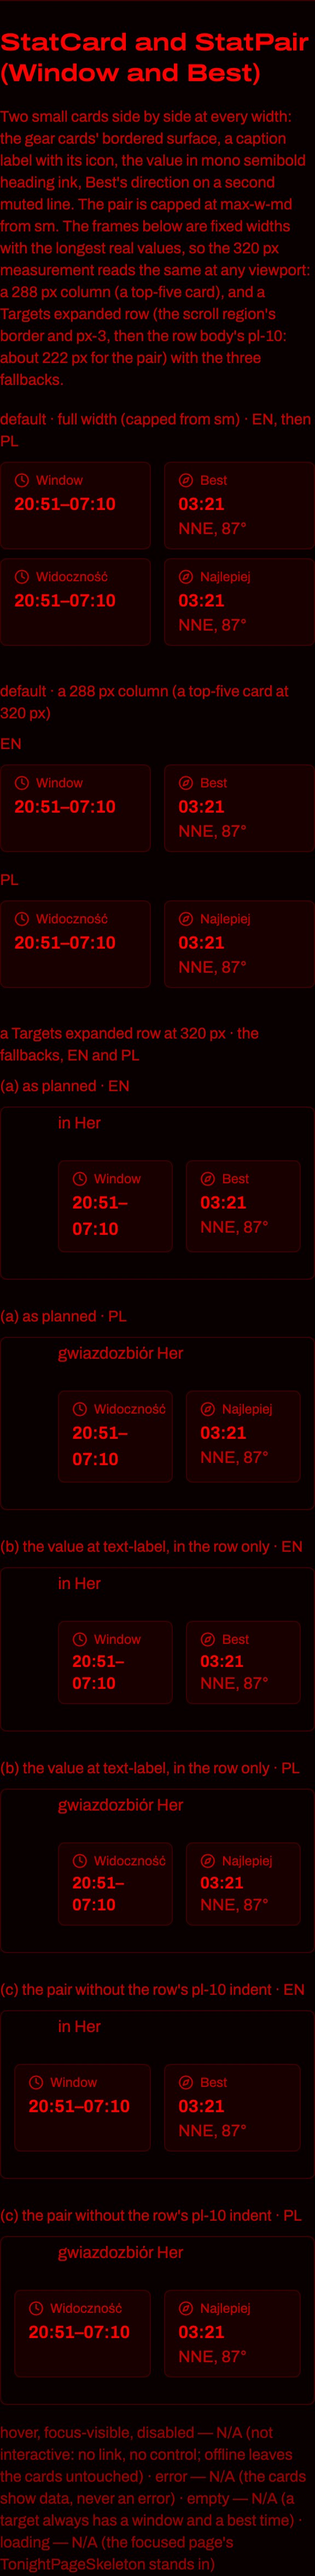
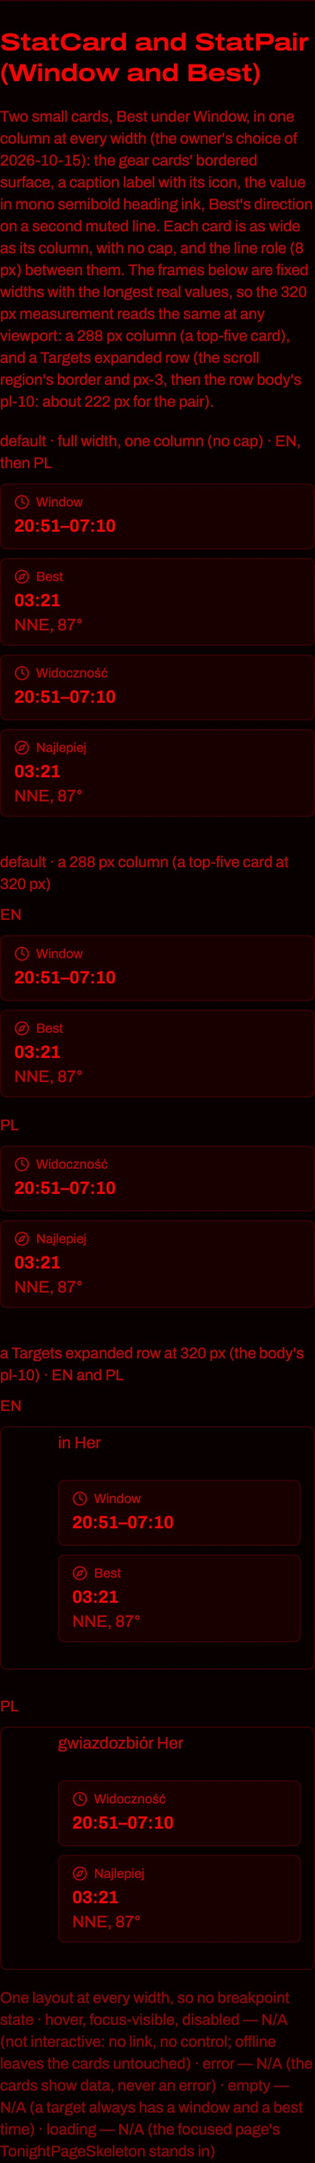
feat(ui-fact-rhythm): owner checkpoint, stacked stat pair and item 20 px (p1)
Owner decisions of 2026-10-15: Window and Best stack in one column, each card
full width, at every width (variant (a)'s look); --spacing-item 1.25rem (40 px
between two items). One-group rows follow with py-item. StatPair grid gap-line
without the cap, StatCard drops valueClass, /design specimens and the capture
script follow, curated evidence refreshed (the a/b/c and i/ii shots stay as the
decision's record). Plan updated for Phases 3-5.

diff --git a/src/styles/global.css b/src/styles/global.css
@@ -674,13 +674,14 @@
    * never numeric steps (`src/styles/rhythm-roles.test.ts` guards the converted files).
    * - line (8 px): between the lines of one group (the facts of an item).
    * - group (24 px): between the groups of one item (identity, the stat pair, the facts, the actions), and the
-   *   hairline's padding; also the padding of a one-group row (a night, a washed-out row).
-   * - item (40 px): the padding on each side of the rule between two items that hold groups (a target, a planet, the
-   *   Moon target, an event).
+   *   hairline's padding.
+   * - item (20 px): the padding on each side of the rule between two rows (a target, a planet, the Moon target, an
+   *   event, and the one-group rows: a night, a washed-out row), so 40 px separate two rows' contents (owner,
+   *   2026-10-15).
    */
   --spacing-line: 0.5rem;
   --spacing-group: 1.5rem;
-  --spacing-item: 2.5rem;
+  --spacing-item: 1.25rem;
 
   /* Nightfall: one family, Archivo, in widths. Display is expanded; mono is Archivo with tabular figures. */
   --font-sans: "Archivo Variable", system-ui, sans-serif;

diff --git a/src/styles/rhythm-roles.test.ts b/src/styles/rhythm-roles.test.ts
@@ -5,7 +5,7 @@ import { describe, expect, it } from "vitest";
 
 /**
  * Rhythm guard (ui-fact-rhythm): the guarded files space their content vertically with the rhythm roles from
- * `src/styles/global.css` (`line` 8 px, `group` 24 px, `item` 40 px: `mt-group`, `py-item`, `space-y-line`, …), never
+ * `src/styles/global.css` (`line` 8 px, `group` 24 px, `item` 20 px: `mt-group`, `py-item`, `space-y-line`, …), never
  * with numeric steps, so the gap between lines, groups and items stays one rule instead of a per-file choice.
  *
  * It fails on every vertical spacing utility with a number (`mt-4`, `sm:py-3`, `-mt-2`, `space-y-1.5`, `gap-y-2`),

diff --git a/context/changes/ui-fact-rhythm/plan.md b/context/changes/ui-fact-rhythm/plan.md
@@ -4,7 +4,7 @@
 
 This change gives the Tonight focused pages' item lists a fact rhythm. It is the second change of the ui-refine split (`context/changes/ui-refine/audit.md`: findings 2, 4, 5, 8 and 9; owner decisions 2, 3 and 5).
 
-- **Window and Best** become two small stat cards, side by side in one row at every width.
+- **Window and Best** become two small stat cards, one under the other in one column, each the full width of its column, at every width (owner change of 2026-10-15, replacing "side by side").
 - **Every other fact** is one icon-led line.
 - **A hairline** separates "when" from "what and how".
 - **Spacing** comes from three rhythm roles instead of per-file steps.
@@ -74,7 +74,7 @@ From `research.md`, on main c650a8a (ui-quiet-actions merged).
   2. the **stat pair** (Window "20:51–07:10"; Best "03:21" over "NNE, 87°");
   3. after a hairline, the "what and how" facts, each with its icon: what you'll see (an Eye in the accent colour), the eyepieces (Telescope), why (Info, muted).
 - Then come the actions from ui-quiet-actions.
-- Rows sit 40 px from their rule on each side, groups are 24 px apart, lines 8 px.
+- Rows sit 20 px from their rule on each side (40 px between two items' contents; owner, 2026-10-15), groups are 24 px apart, lines 8 px.
 
 **Moon**
 - The Moon's up and faint lines beside the disc are icon-led facts, spaced inside the island's slot.
@@ -100,8 +100,8 @@ From `research.md`, on main c650a8a (ui-quiet-actions merged).
 - `TargetDetails` already owns the spacing between its parts so callers carry none (`TargetDetails.astro:2-6`). The new components extend that. The Moon target block also renders through `TargetDetails`, so it will get the pair. The experiment's Moon shot does not show that block, because the Moon was not a target that night (review F3). Phase 3 adds a Moon target specimen to `/design` to show it.
 - **Slotted text can lose a space.** "Do szczegółów:10 mm Plössl" rendered when a sentence was slotted straight into the experiment's `Fact` (`evidence/exp-stat-cards/planets-pl-dark.jpg`). Fact content must sit in its own element.
 - **`MoonTimeSlider.tsx:70` puts `space-y-2` on its children**, but Astro wraps island children in `<astro-slot>` (`display: contents`), so the margins land on a box-less element. The lines stand tight today (`evidence/before/moon-phone-en-dark.jpg`; review F3). The facts must sit in one `FactList` inside the slot.
-- **Desktop.** A half-width stat card at 1280 px floats its value in a 360 px box (`evidence/exp-stat-cards/targets-desktop-pl-light.jpg`). Cap the pair's width from `sm`.
-- **The expanded rows are narrow at 320 px** (review F2): 288 px column − 26 px (the scroll region's border and `px-3`, `TargetsPageContent.astro:246`) − 40 px (`pl-10`) leaves about 222 px for the pair. That is about 105 px per card and about 79 px of text, against about 88-95 px for "20:51–07:10" at `text-body` and about 85 px for "Widoczność" with its icon. In the top five (`ObjectCard`) there is about 112 px of text per card. None of the current checks sees this:
+- **Desktop.** A half-width stat card at 1280 px floats its value in a 360 px box (`evidence/exp-stat-cards/targets-desktop-pl-light.jpg`). Cap the pair's width from `sm`. **Superseded** (owner, 2026-10-15): the pair is stacked, each card the full width of its column, with no cap.
+- **The expanded rows are narrow at 320 px** (review F2): 288 px column − 26 px (the scroll region's border and `px-3`, `TargetsPageContent.astro:246`) − 40 px (`pl-10`) leaves about 222 px for the pair. That is about 105 px per card and about 79 px of text, against about 88-95 px for "20:51–07:10" at `text-body` and about 85 px for "Widoczność" with its icon. In the top five (`ObjectCard`) there is about 112 px of text per card. **Measured in Phase 1** (9385b8a, `evidence/design/curated/stat-frame-*`): side by side, "20:51–07:10" wraps in the 222 px row and "Widoczność" overflows by about 1 px; the owner then chose the stacked pair (see Decisions). None of the current checks sees this:
   - `tonight-phone.spec` measures the document with rows closed;
   - `capture.mjs` shoots at 390/1280 with rows closed.
 - `TonightTiles.astro:160,170` reads `moonCard.phaseText` and `solarSystem.entries[0].reason`. Their types and wording stay, and the dashboard is not touched.
@@ -112,7 +112,7 @@ From `research.md`, on main c650a8a (ui-quiet-actions merged).
   - The overline in muted drops from `text-primary` (#ff0000, 5.20:1) to #c40000 (3.31:1) at 13 px: above the pinned 3:1, but quieter.
 - **S-08 adjustable-session-plan** (worktree `adjustable-session-plan`, HEAD 8bc0c1b with Phases 1-4 committed, Phase 5 uncommitted on 2026-10-14) will almost certainly merge first (review F4). Its overlap with this change:
   - `ObjectRow`'s root `<li>`: adds `id="object-${entry.id}" class="scroll-mt-4"`.
-  - **The same washed-out `<li>` line in `TargetsPageContent.astro`** that Phase 3 edits: S-08 makes it `flex min-h-11 scroll-mt-4 items-center gap-3 py-3`. The merged result is `flex min-h-11 scroll-mt-4 items-center gap-3 py-group`.
+  - **The same washed-out `<li>` line in `TargetsPageContent.astro`** that Phase 3 edits: S-08 makes it `flex min-h-11 scroll-mt-4 items-center gap-3 py-3`. The merged result is `flex min-h-11 scroll-mt-4 items-center gap-3 py-item`.
   - `ObjectCard`: adds `data-object-card` (Phase 5, uncommitted).
   - `TonightPageSkeleton`: its `layout="plan"` branch (Phase 5).
   - `FinderContent.astro:48`: the `from` prop, not the expect line.
@@ -142,17 +142,18 @@ The owner's answers of 2026-10-14 (relayed by the orchestrator) to the agent's d
 - **D1. Roles (owner: looser rhythm).** Fixed at every width.
   - `line` 8 px: between the lines of one group.
   - `group` 24 px: between the groups of one item, and the hairline's padding.
-  - `item` 40 px: the padding on each side of the rule between two items holding groups (target, planet, Moon target, event).
-  - **Open until Phase 1's checkpoint** (owner, 2026-10-14): "item 40 px" may instead mean 40 px in total between two items' contents (20 px on each side of the rule). Phase 1 shows both readings, and the owner chooses from the screenshots. Until then the token is `2.5rem` (40 px each side). If the owner picks 40 px in total, `--spacing-item` becomes `1.25rem` and nothing else in the plan changes, because every view uses the role.
-  - A one-group row (a night, a washed-out row) is `py-group`.
+  - `item` 20 px (**owner, 2026-10-15**: 40 px in total between two items' contents, 20 px on each side of the rule; `--spacing-item: 1.25rem`): the padding on each side of the rule between two items holding groups (target, planet, Moon target, event).
+  - **Resolved at Phase 1's checkpoint** (was open (owner, 2026-10-14): "item 40 px" may instead mean 40 px in total between two items' contents (20 px on each side of the rule). Phase 1 shows both readings, and the owner chooses from the screenshots. Until then the token is `2.5rem` (40 px each side). If the owner picks 40 px in total, `--spacing-item` becomes `1.25rem` and nothing else in the plan changes, because every view uses the role.) The owner picked 40 px in total (variant (i), `evidence/design/curated/rhythm-i-*`).
+  - A one-group row (a night, a washed-out row) is `py-item` too (agent, 2026-10-15, following the owner's item 20: with `py-group` a one-group row would sit 48 px from the next, further apart than full items at 40). Every row is 40 px from the next.
 - **D2. Overline** (default kept): 13 px / 20 px, weight 600, tracking 0.04em, sentence case, muted ink.
 - **D3. Stat card** (default kept, with F2 and F8):
   - The gear cards' bordered `bg-surface` box, `rounded-lg`.
   - A caption label with its icon over a `font-mono text-body` semibold value.
   - Best's direction on a second muted line.
-  - The pair is `grid-cols-2` at every width, capped at `max-w-md` from `sm`.
+  - ~~The pair is `grid-cols-2` at every width, capped at `max-w-md` from `sm`.~~ **Owner change of 2026-10-15**: the pair is one column at every width, Window above Best, each card the full width of its column (`StatPair` = `grid gap-line`, no cap). This replaces decision 5's "side by side" and the grid stretch below no longer applies.
   - The grid stretches the shorter Window card to Best's height. That is accepted; the empty room sits under Window's value.
   - **In red the card keeps the faint border like the gear cards** (owner, F8). The border carries the shape there, not the fill.
+- **F2, decided 2026-10-15** (owner): the look of fallback (a), the pair keeping the row's `pl-10` indent with the same card styling, but stacked in one column (see D3). (b) and (c) are dropped.
 - **F2. Measure first** (owner). Phase 1 builds the pair on its `/design` specimen and captures it at 320 px inside a Targets expanded-row frame (EN and PL; dark, light and red), with the fallbacks beside it. **Phase 1 then stops**, and the owner chooses from the screenshot before Phase 3 starts. Fallbacks shown:
   - (a) as planned;
   - (b) the value at `text-label` in the row only;
@@ -241,7 +242,7 @@ The main session runs the full gates once per phase (`npm test`, `npm run build`
 - **The icon map's imports.** lucide icons plus `import type { SkyEventKind } from "@/lib/engine"` for the `satisfies` check. The import is type-only and disappears at runtime.
 - **S-08 rebase** (see Key Discoveries):
   - Keep S-08's `id`/`scroll-mt-4` on `ObjectRow`'s root `<li>`.
-  - Merge the washed-out `<li>` line to `flex min-h-11 scroll-mt-4 items-center gap-3 py-group`.
+  - Merge the washed-out `<li>` line to `flex min-h-11 scroll-mt-4 items-center gap-3 py-item`.
   - Keep `data-object-card` on `ObjectCard`.
   - Keep both changes' keys in `en.ts`/`pl.ts` and both changes' `design.astro` sections.
   - The guard's pattern skips `scroll-mt-*`.
@@ -489,10 +490,10 @@ Rebuild the shared target details, their three callers and the skeleton on the c
 - `StatPair` at `mt-group`:
   - Window: `windowStart`–`windowEnd`;
   - Best: the value `bestTime` and the sub line `bestDirection`.
-- In an expanded row, the owner's F2 fallback applies (a prop or class from `ObjectRow`; for fallback (c), `ObjectRow` places the details outside the `pl-10` indent).
+- In an expanded row, the stacked pair keeps the row's `pl-10` indent (owner's F2 choice, 2026-10-15: the look of (a), stacked); no prop or class is needed.
 - The slot wrapper is a `FactList` with `mt-group border-t border-border pt-group`.
 - The action row moves to `mt-group`, its `gap-y-2` becomes `gap-y-line`, its `gap-x-5` stays, and both links are unchanged.
-- The header comment is rewritten: Window and Best side by side at every width (decision 5); every other fact on its own line.
+- The header comment is rewritten: Window and Best stacked, each card full width, at every width (owner change of 2026-10-15); every other fact on its own line.
 
 #### 2. A target's facts
 
@@ -516,16 +517,16 @@ Rebuild the shared target details, their three callers and the skeleton on the c
 
 **Contract**:
 - `ObjectCard`: the `<li>` is `py-item first:pt-0 last:pb-0`, and its detail line is `mt-line` (was `mt-1`).
-- `ObjectRow`: the body is `pb-item pl-10`, or no indent under fallback (c). Its 44 px summary keeps `py-4`.
+- `ObjectRow`: the body is `pb-item pl-10`. Its 44 px summary keeps `py-4`.
 - `SeenTag`: `mt-3` → `mt-line`.
 - `TargetsPageContent`:
   - the count line `expectLocked ? "mb-2" : "mb-4"` becomes `mb-line` / `mb-group`;
   - the locked line `mb-4` → `mb-group`;
   - the washed-out intro `mb-4` → `mb-group`;
-  - the washed-out `<li>` `py-3` → `py-group` (merged with S-08's `scroll-mt-4`);
+  - the washed-out `<li>` `py-3` → `py-item` (merged with S-08's `scroll-mt-4`);
   - nothing else.
 - `TonightPageSkeleton`, default (non-plan) layout only:
-  - its placeholder rows move from `space-y-3 py-5` to the item and line roles, with bars standing for the stat pair (two `h-14` boxes side by side) and the fact lines;
+  - its placeholder rows move from `space-y-3 py-5` to the item and line roles, with bars standing for the stat pair (two `h-14` boxes stacked, full width, `gap-line`) and the fact lines;
   - its header comment is updated ("one data point per line" → the new rhythm);
   - the `layout="plan"` branch is S-08's and is not touched.
 
@@ -629,8 +630,8 @@ Rebuild the shared target details, their three callers and the skeleton on the c
   - three groups per item, the hairline visible;
   - the accent Eye on the "what you'll see" line;
   - the stat pair readable in red, with no button look beside the hairline;
-  - Best's direction on its own line, the pair capped on desktop;
-  - the owner's fallback in the expanded rows;
+  - Best's direction on its own line, the pair stacked with full-width cards on phone and desktop;
+  - the stacked pair in the expanded rows, indented, nothing wrapping at 320 px;
   - planet labels present, no lost spaces, no sideways scroll at 320 px;
   - the skeleton swap without a jump
 
@@ -678,7 +679,7 @@ Bring the two list pages that are not targets onto the rhythm, the overline and 
 **Contract**:
 - "Times in" `mb-4` → `mb-group`.
 - Both group labels are `text-overline text-muted-foreground`. The outlook label keeps its dashed rule, now `mt-line border-t-2 border-dashed pt-group`.
-- Rows are `py-group`, and the cells' vertical `gap-2` becomes `gap-y-line`. The headline's inline `gap-2` (dot to word) stays horizontal.
+- Rows are `py-item`, and the cells' vertical `gap-2` becomes `gap-y-line`. The headline's inline `gap-2` (dot to word) stays horizontal.
 - Verdict rows:
   - the headline line (`[data-sky-headline]` with its dot) is unchanged;
   - `Fact kind="why" tone="muted"` holds `reasonText` in a `<p class="first-letter:uppercase">`;
@@ -756,10 +757,10 @@ Make the contract stick (/10x-ui "Make it stick"), record the evidence and run e
 **Intent**: The next agent finds the roles and components and keeps using them.
 
 **Contract**:
-- **Tokens bullet**: adds `text-overline` (section labels, muted, sentence case) and the rhythm roles: `line` 8, `group` 24, `item` 40 px (`gap-line`, `mt-group`, `py-item`); items holding groups are `py-item`, one-group rows `py-group`. It names the guard test.
+- **Tokens bullet**: adds `text-overline` (section labels, muted, sentence case) and the rhythm roles: `line` 8, `group` 24, `item` 20 px (`gap-line`, `mt-group`, `py-item`); every row, one group or several, is `py-item` (40 px between two rows). It names the guard test.
 - **Components bullet**: adds:
   - `Fact`/`FactList` (every fact line on a Tonight item: an icon from `src/components/ui/fact-icons.ts`, one concept one icon; sentences in `<p>`, values in `<span>`; no list elements; the Eye in `text-primary-strong` on "what you'll see" and the amber safety icon are the two icon exceptions);
-  - `StatCard`/`StatPair` (Window and Best only).
+  - `StatCard`/`StatPair` (Window and Best only; stacked, each card full width of its column, at every width).
 - **Nightfall composition**: the stat cards are the second deliberate boxed exception after the gear cards, keeping the faint border in red.
 - **What-to-expect paragraph**: the marker is `<div data-expect="<key">` (a `Fact` root), not `<p>`.
 - **Sky events paragraph**: a sentence that the kind and visibility-mark icons come from the shared map.
@@ -823,7 +824,7 @@ Make the contract stick (/10x-ui "Make it stick"), record the evidence and run e
 
 None material. The new components render static markup on the server, and the icons are the same lucide SVGs inlined per use.
 
-The Targets page at 390 px grew about 13% in height in the experiment, with item 32 (5196 to 5886 px at 2×). With the owner's item 40 and group 24 it grows more, about 20%, estimated and not measured. That is the looser rhythm the owner chose. The list of the other objects is still capped by its scroll region (`max-h-128`).
+The Targets page at 390 px grew about 13% in height in the experiment, with item 32 (5196 to 5886 px at 2×). With item 20 (owner, 2026-10-15), group 24 and the stacked pair (one more card row per item), the growth is estimated at a similar size and is measured in Phase 3's capture. The list of the other objects is still capped by its scroll region (`max-h-128`).
 
 ## Migration Notes
 
@@ -854,9 +855,9 @@ There is no data migration. The planet fact wording changes for stored offline c
 
 #### Manual
 
-- [ ] 1.6 `/design` at 320 px and 1280 px in three themes, EN and PL: distinct roles, pair and fallbacks honest, desktop cap, Polish spacing, one icon per concept, red card and overline checked
-- [ ] 1.7 Owner checkpoint: the 320 px `c-stat-pair` screenshots go to the owner, who picks fallback (a), (b) or (c)
-- [ ] 1.8 Owner checkpoint: the 320 px `c-item-rhythm` screenshots go to the owner, who picks 40 px in total or 40 px on each side
+- [x] 1.6 `/design` at 320 px and 1280 px in three themes, EN and PL: distinct roles, pair and fallbacks honest, desktop cap, Polish spacing, one icon per concept, red card and overline checked
+- [x] 1.7 Owner checkpoint: the 320 px `c-stat-pair` screenshots go to the owner, who picks fallback (a), (b) or (c)
+- [x] 1.8 Owner checkpoint: the 320 px `c-item-rhythm` screenshots go to the owner, who picks 40 px in total or 40 px on each side
 
 ### Phase 2: Planet fact labels and value wording
 

diff --git a/context/changes/ui-fact-rhythm/change.md b/context/changes/ui-fact-rhythm/change.md
@@ -28,3 +28,5 @@ Plan reviewed 2026-10-14 (`reviews/plan-review.md`, F1-F10 all applied). The own
 Owner on D1, 2026-10-14: "item 40 px" stays open. Phase 1 shows both readings, 40 px in total between two targets (20 px each side of the rule) and 40 px on each side (80 px in total), in a `c-item-rhythm` specimen at 320 px, captured with the stat-pair shots. The owner chooses at the Phase 1 checkpoint (Progress 1.8).
 
 Phase 1 implemented 2026-10-15 (9385b8a): roles, overline, icon map, Fact/FactList, StatCard/StatPair, /design specimens, guard. Gates green (types, lint, npm test 1983, build, sky-events e2e, guard break-check). Role bars measured 8/24/40 px. At 320 px in a Targets expanded row (222 px for the pair), "20:51–07:10" wraps in fallbacks (a) and (b), and "Widoczność" overflows its label by about 1 px; only (c) (no `pl-10` indent, 262 px) keeps the values on one line. Owner checkpoint pending: the fallback (Progress 1.7) and the item spacing, 20 or 40 px on each side (1.8). Curated shots in `evidence/design/curated/`.
+
+Owner checkpoint answered 2026-10-15 (Progress 1.6-1.8): the stat pair takes variant (a)'s look (indented row, same cards) but stacked, Window above Best, one column, each card the full width of its column, at every width (replacing decision 5's "side by side" and D3's grid-cols-2 / max-w-md); item spacing (i), 40 px in total between two items (`--spacing-item: 1.25rem`). Agent follow-up: one-group rows (nights, washed-out rows) also use `py-item`, so every row sits 40 px from the next (with `py-group` they would be 48 px apart, further than full items). Phase 1 updated; the stacked pair measures 222 px in the 320 px expanded row with every value on one line.
